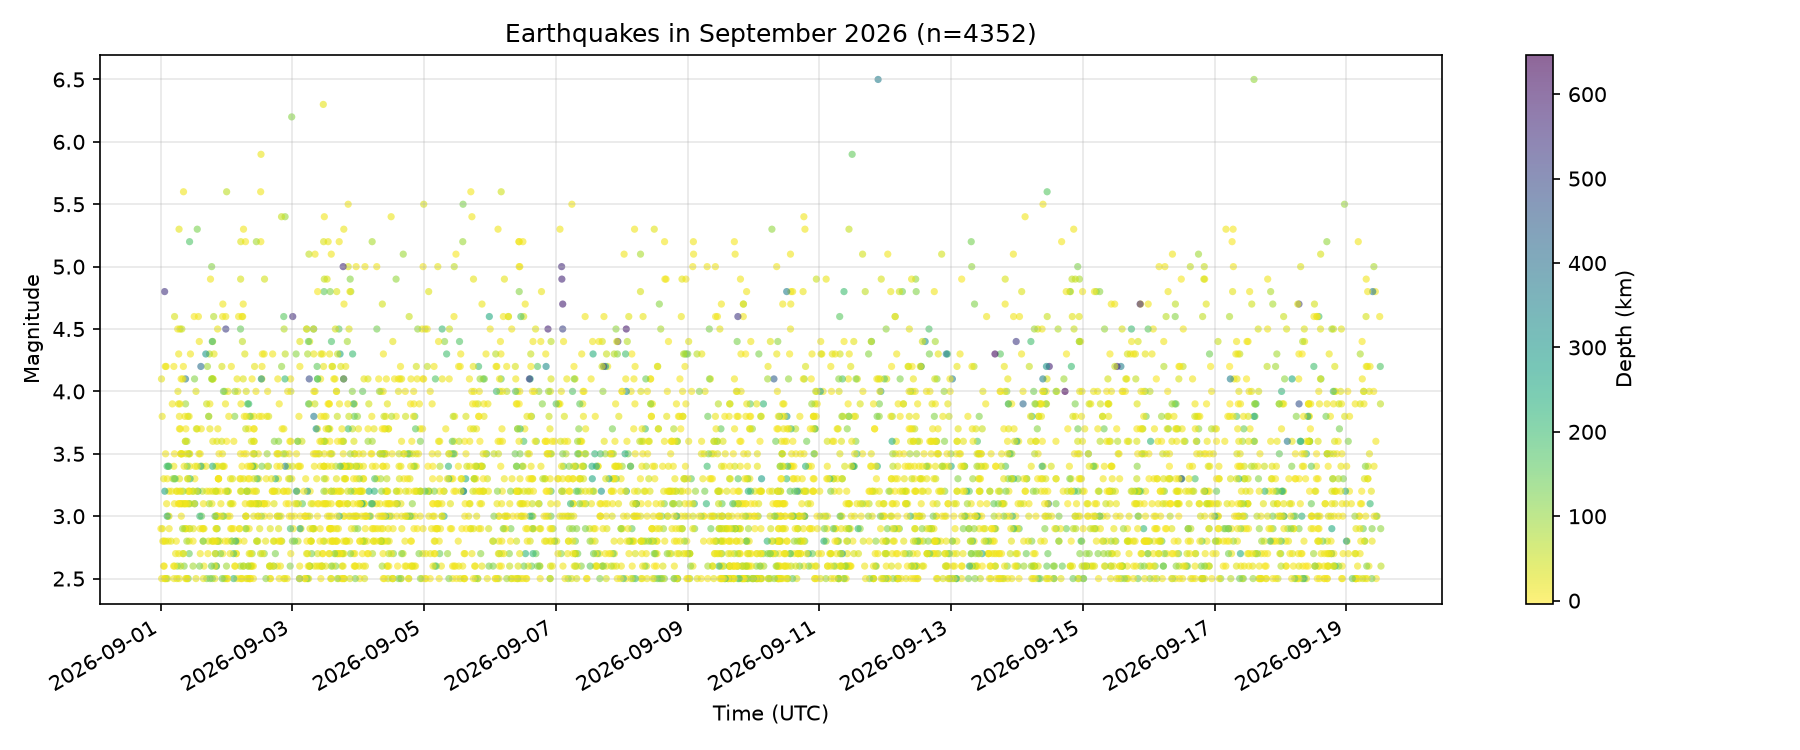
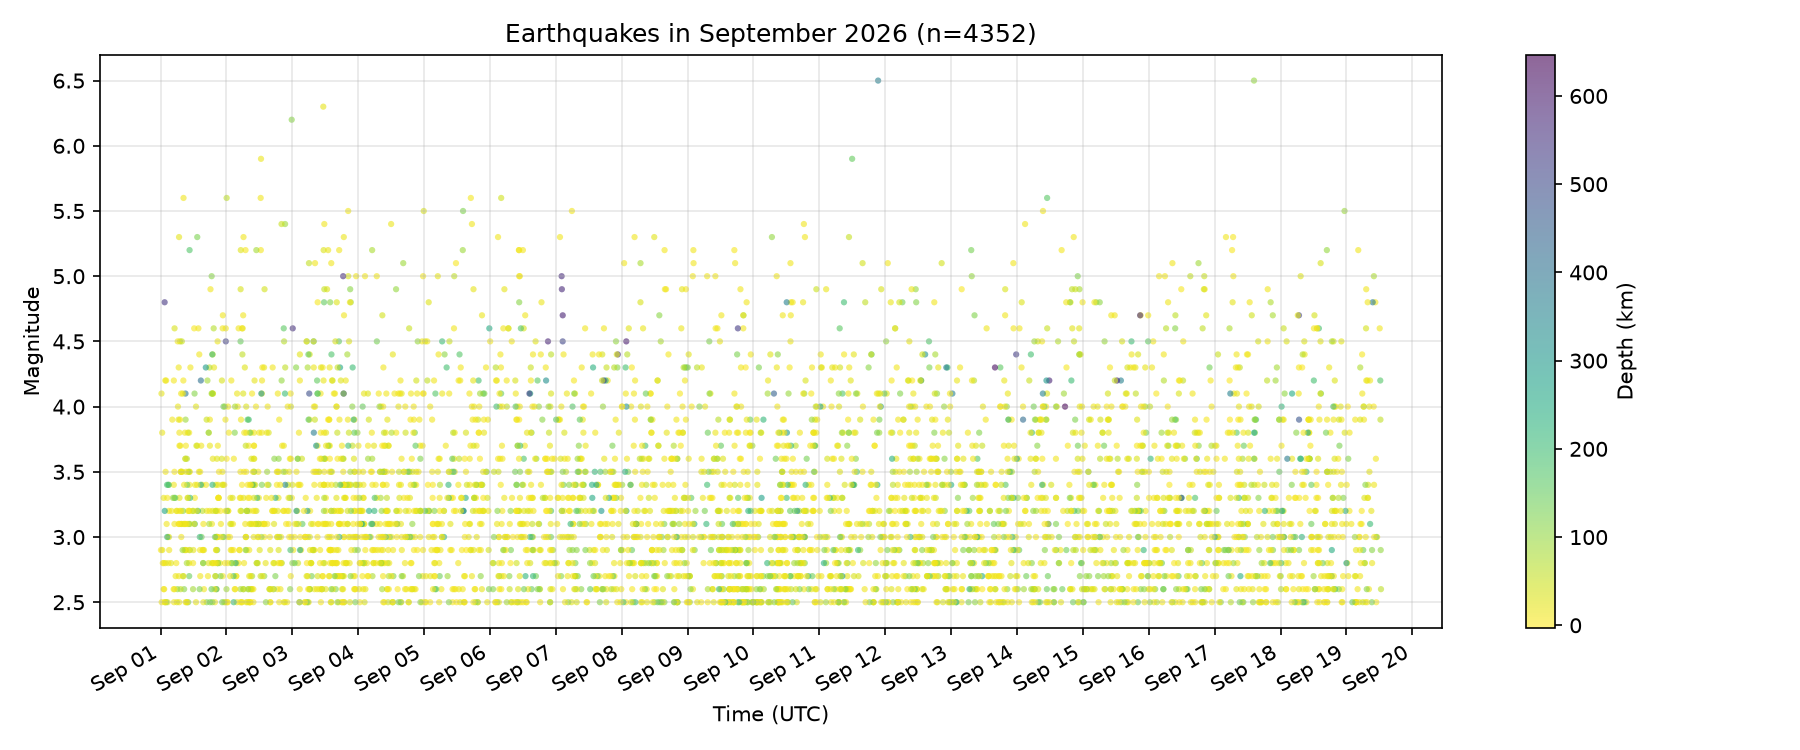
label every day on the time axis

diff --git a/plot.py b/plot.py
@@ -10,6 +10,7 @@ import datetime as dt
 from pathlib import Path
 
 import matplotlib.pyplot as plt
+import matplotlib.dates as mdates
 
 FILE = "quakes_september.geojson"
 PICTURE = "quakes_september.png"
@@ -39,19 +40,19 @@ def main():
     quakes = load_quakes(DATA)
     print(f"{DATA.name}: {len(quakes)} quakes")
 
-    times, mags, depths = [], [], []          
+    times, mags, depths = [], [], []
     for when, mag, depth in quakes:
         times.append(when)
         mags.append(mag)
-        depths.append(depth)                  
+        depths.append(depth)
     print(f"{len(mags)} magnitudes, from {min(mags):.1f} to {max(mags):.1f}")
     print(f"depths from {min(depths):.0f} km to {max(depths):.0f} km")
 
     fig, ax = plt.subplots(figsize=(12, 5))
-    scatter = ax.scatter(                    
+    scatter = ax.scatter(
         times, mags,
-        c=depths, cmap="viridis_r",         
-        s=12, alpha=0.6, edgecolors="none",
+        c=depths, cmap="viridis_r",
+        s=9, alpha=0.6, edgecolors="none",
     )
 
     ax.set_xlabel("Time (UTC)")
@@ -59,8 +60,11 @@ def main():
     ax.set_title(f"Earthquakes in September 2026 (n={len(mags)})")
     ax.grid(alpha=0.3)
 
-    cbar = fig.colorbar(scatter, ax=ax, shrink=1)      
+    cbar = fig.colorbar(scatter, ax=ax, shrink=1)
     cbar.set_label("Depth (km)")
+
+    ax.xaxis.set_major_locator(mdates.DayLocator(interval=1))
+    ax.xaxis.set_major_formatter(mdates.DateFormatter("%b %d"))
 
     fig.autofmt_xdate()
     fig.tight_layout()
